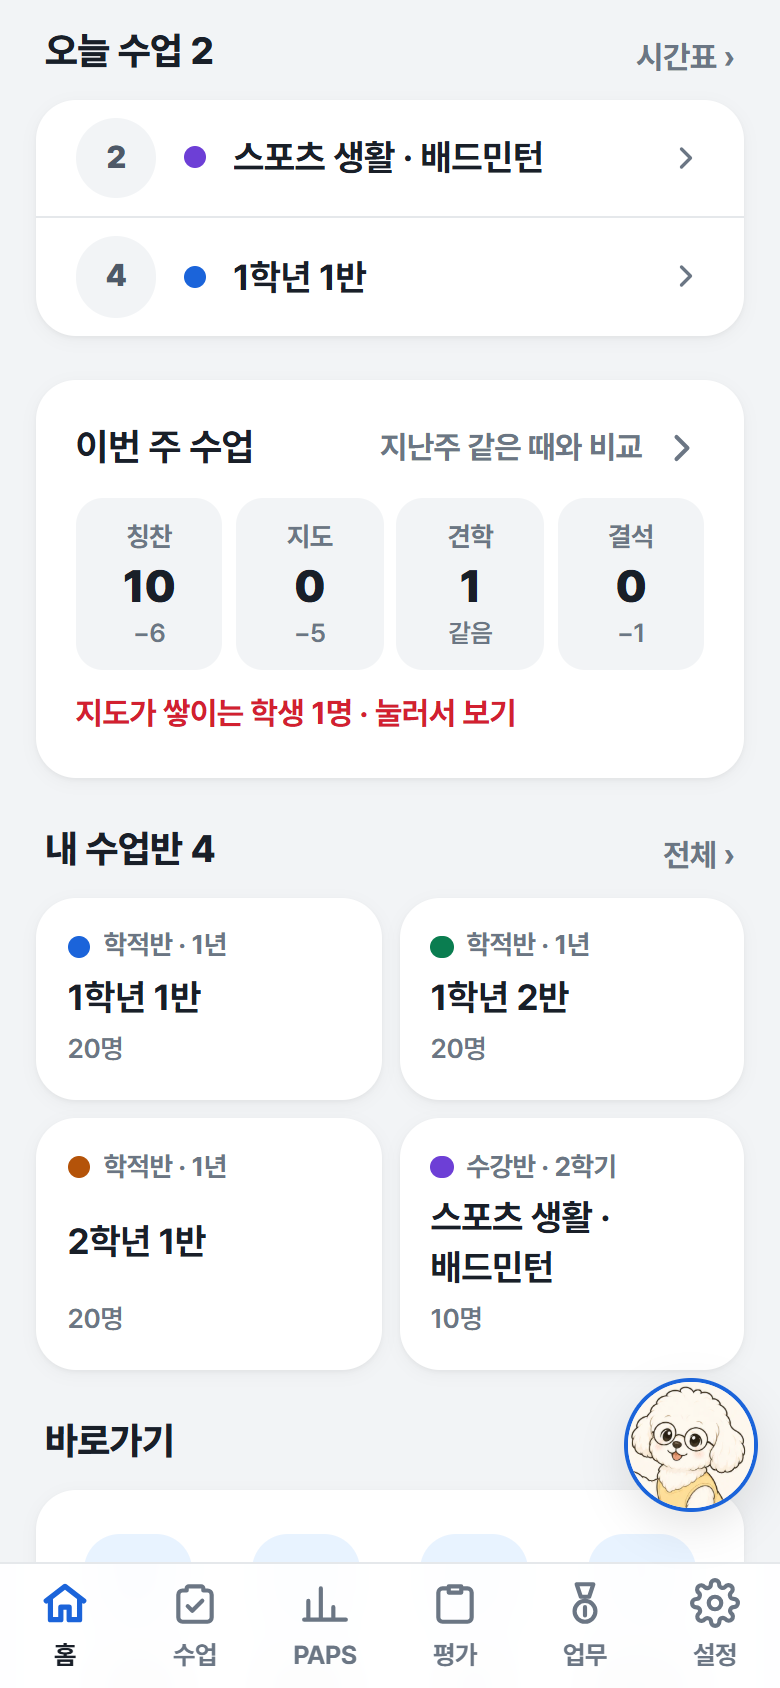
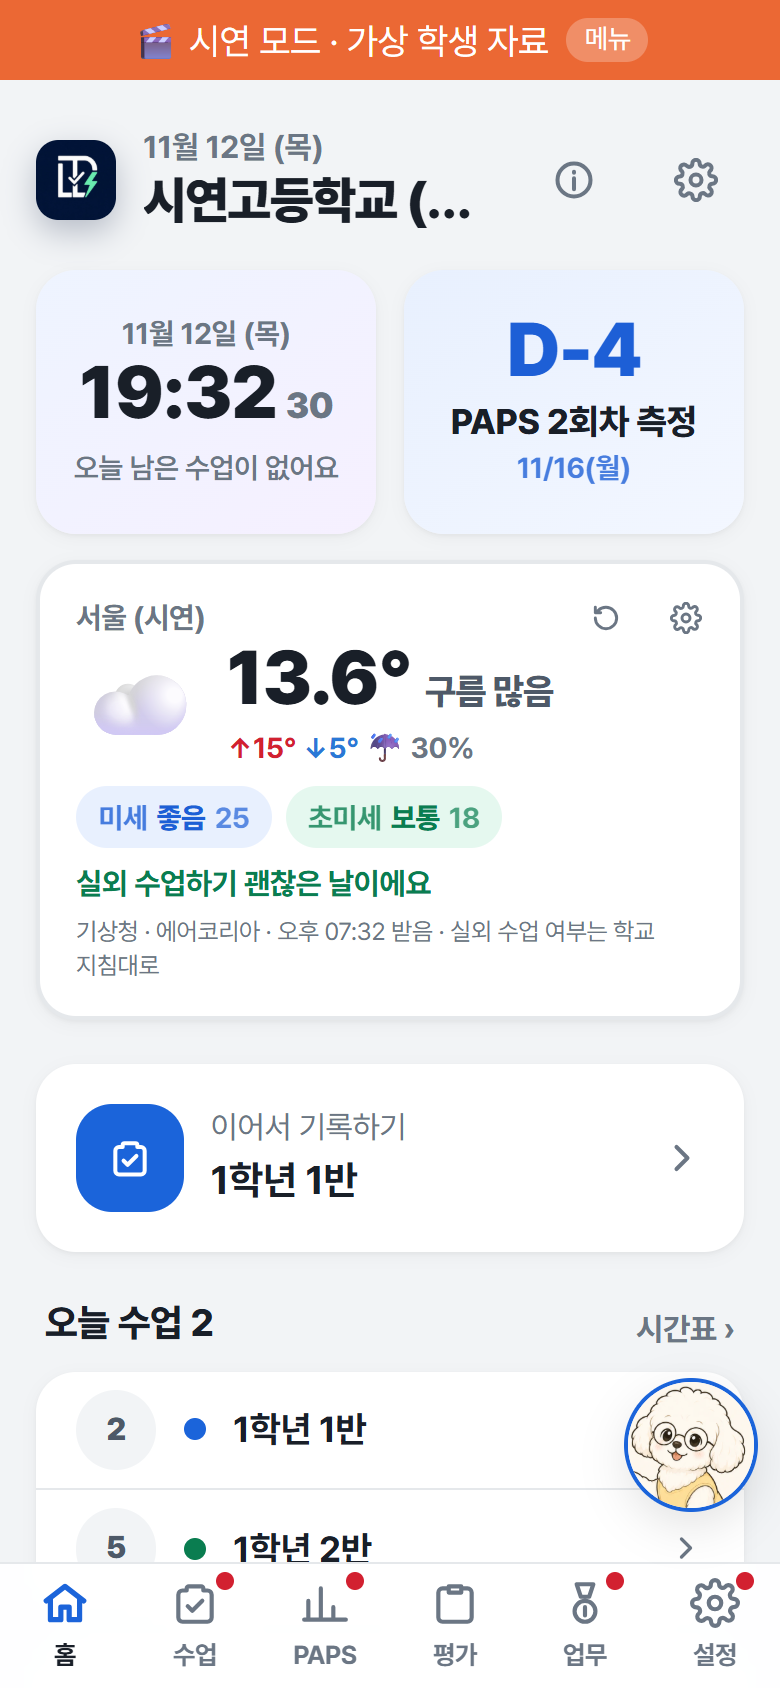
매뉴얼 캡처 교체(홈 대시보드 · 기록표 · 출결 일간 · 업무 메뉴 견적서 → 품의) · 실제 AI 사진 읽기 시험 결과 · 인계 메모

diff --git a/portfolio/manual.md b/portfolio/manual.md
@@ -30,7 +30,7 @@ PE LOG는 체육 수업에 필요한 일을 **메뉴 6개**에 모았어요. 휴
 - **이번 주 수업 카드**: 칭찬 · 지도 · 견학 · 결석을 지난주 같은 때와 비교해요. 누르면 지도가 쌓이는 학생, 칭찬을 아직 못 받은 학생, 늦은 진도, 덜 끝난 채점이 모여 있어요(학생 이름은 이 화면에서만).
 - 오른쪽 아래 **땅콩이**에게 "명렬은 어떻게 올려?"처럼 물어보면 사용법과 바로가기를 알려 줘요. [오늘 브리핑]을 누르면 오늘 수업 · 안 옮긴 출결 · 늦은 진도 · 남은 채점 · 다가오는 업무를 알려 줘요(학생 이름 없이 수만).
 
-![홈 화면 (휴대폰): 오늘 수업 · 이번 주 수업](images/manual-01.png)
+![홈 화면 (휴대폰): 시계 · D-day · 날씨 · 이어서 기록하기 · 오늘 수업](images/manual-01.png)
 
 ![PC 화면: 위 큰 메뉴, 왼쪽 하위 메뉴](images/manual-02.png)
 
@@ -59,7 +59,7 @@ PE LOG는 체육 수업에 필요한 일을 **메뉴 6개**에 모았어요. 휴
 
 ![카드를 눌러 칭찬 · 지도 기록](images/manual-04.png)
 
-![출결: 결석 · 지각 표시](images/manual-05.png)
+![출결 (일간): 결석 · 지각 표시](images/manual-05.png)
 
 ### 종목 수업자료 · 슬라이드
 
@@ -155,11 +155,11 @@ PE LOG는 체육 수업에 필요한 일을 **메뉴 6개**에 모았어요. 휴
 
 | 파일명 | 화면 |
 | --- | --- |
-| manual-01.png | 홈 (휴대폰, 오늘 수업 · 이번 주 수업 카드 · 내 수업반) |
+| manual-01.png | 홈 (휴대폰, 시계 · D-day · 날씨 · 이어서 기록하기 · 오늘 수업) |
 | manual-02.png | 수업 메뉴 (PC, 위 큰 메뉴 + 왼쪽 하위 메뉴 + 색 묶음) |
 | manual-03.png | 기록표 (PC, '친구 도움'을 고르고 칸에 기록) |
 | manual-04.png | 카드 → 칭찬 · 지도 기록 창 (휴대폰) |
-| manual-05.png | 출결 (휴대폰, 결석 · 지각 한 명씩) |
+| manual-05.png | 출결 (휴대폰, 일간 · 결석 · 지각 한 명씩) |
 | manual-06.png | 종목 수업자료 · 한 장으로 보는 규칙 (휴대폰, 넷볼) |
 | manual-07.png | 슬라이드로 보기 (PC, 넷볼 핵심 규칙) |
 | manual-08.png | 보조심판 판정 창 (휴대폰, 농구 트래블링) |
@@ -167,5 +167,5 @@ PE LOG는 체육 수업에 필요한 일을 **메뉴 6개**에 모았어요. 휴
 | manual-10.png | PAPS 통계 (PC, 종합등급 분포 — 1·2등급 파랑 · 3등급 회색 · 4·5등급 빨강, 요인별 평균) |
 | manual-11.png | 수행평가 체크리스트 채점 (휴대폰, 위에 채점 현황) |
 | manual-12.png | 세특 쓰기 편집 창 (휴대폰, 수준 틀 초안 · 바이트) |
-| manual-13.png | 업무 메뉴 (휴대폰, 매년 기안 · 제출 문서 · 학교체육소위원회 · 회의록) |
+| manual-13.png | 업무 메뉴 (휴대폰, 매년 기안 · 소위원회 · 체육 예산 · 견적서 → 품의) |
 | manual-14.png | 설정 (휴대폰) |

diff --git a/CLAUDE.md b/CLAUDE.md
@@ -981,3 +981,5 @@ attendance      { id, schoolYear, groupId, studentId, date, period?, status: 'ab
 - **합치기** `src/db/syncMerge.ts`(테스트 `tests/syncMerge.test.ts`): ① 따로 만든 같은 것 = 학생(학년도 · 학번 · 이름) · 학적반(학년도 · 학년 · 반 · 기간) · 수강반(학년도 · 이름 · 기간) · 키워드 · PAPS 회차 · 수행평가(학년도 · 제목) → 파일 쪽 id를 이 기기 id로, 파일 안 모든 글자 · 객체 열쇠에서 바꿈(`rewriteIds`) ② 같은 자리 = PAPS 칸 · 출결 · 채점 · 세특 글 · 측정 종목 · 체육부장 ③ 양쪽에 있으면 같으면 그대로 · 둘 다 시각(updatedAt · measuredAt)이 있으면 최근 것 · 없으면 이 기기 것(수강반 학생 목록만 합침) ④ 설정은 이 기기 것, 없는 설정만, 비밀 값 제외. 지운 기록은 되살아남(화면 안내). 수업반 옮기기(`runGroupMigration`)는 groups 표가 없는 옛 백업일 때만(늘 돌리면 지난 학년도 반까지 수업반이 생김 — 시연에서 발견해 고침)
 - 백업 화면(`DataPage`): '다른 기기로 옮기기' 칸(비밀번호 두 번 · 정보보안 안내) · 복원 칸이 잠금 파일도 받음 → 비밀번호 → [합치기](기본) / [통째로 바꾸기], 둘 다 그 전에 자동 백업 파일. 합친 결과는 새로고침 뒤 초록 칸(`pelog.mergedSummary`)
 - 확인: 시연 모드 폰 390으로 가상 견적서 엑셀(공급가액 · 세액 칸) → 345,000 + 부가세 34,500 = 견적서 합계 379,500 '같음', 가상 견적서 사진 → 자르기 화면, 잠금 파일 만들기 → 틀린 비밀번호 거절 → 열기 → 합치기('새로 더할 자료 없음'). 실제 AI 호출은 키가 없어 못 해 봄(요청 모양은 시험). v1.21.0
+- **배포 (11-12)**: PR #61 → main 병합 · GitHub Pages 배포 성공(배포 사이트 changelog `2026-11-12-4` 확인). **실제 AI 시험**: 교사 OpenRouter 키(이 PC의 다른 앱 폴더 `.env`, 저장소 · 대화에 넣지 않음)로 앱 코드(`runAi` → `parseQuoteAnswer`)를 Node에서 돌려 가상 견적서 사진을 읽음 → `nvidia/nemotron-3.5-super-vl:free` 5초, 품목 2줄 · 수량 · 단가 · 합계 325,000 · 상호 모두 맞음, 전화 · 계좌는 답에 안 옮김. `thinkingmachines/inkling-2-small:free`는 403(에이전트 전용) → 앱이 쉬운 말 오류로 보여 줌. 무료 사진 모델은 자주 바뀜
+- 매뉴얼 캡처 01(홈 대시보드) · 03(기록표) · 05(출결 일간) · 13(업무 메뉴, 견적서 → 품의) 교체 (도구 `pe-log-demo-video/cap-1112.mjs`, 배포 사이트 시연 모드)
